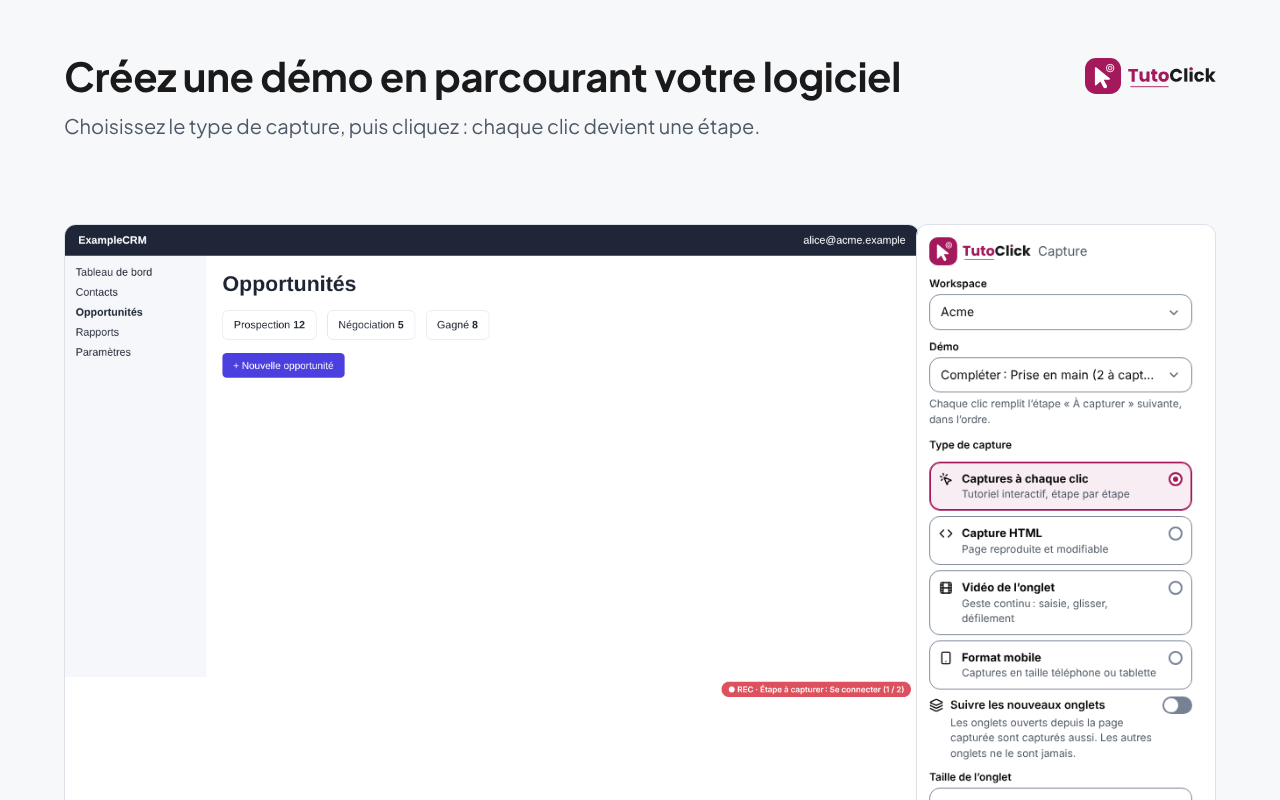
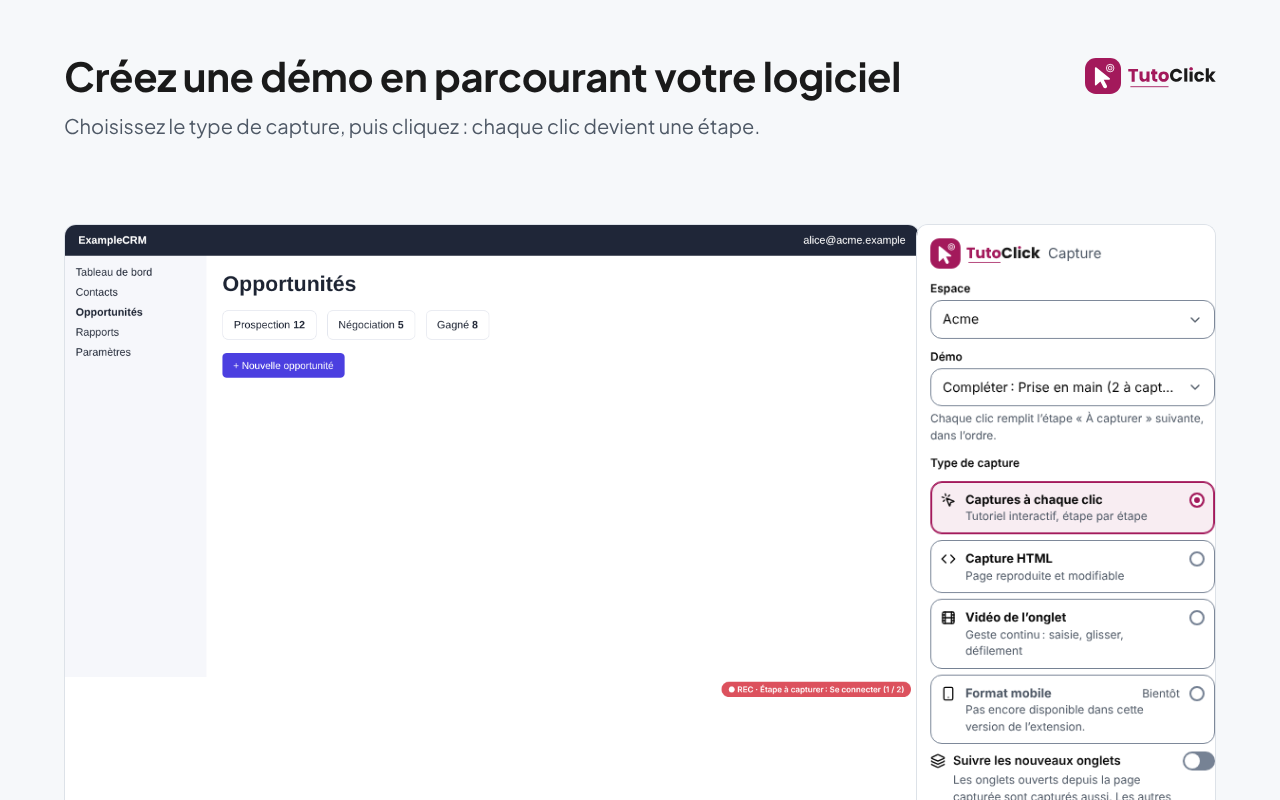
EXT-STORE : le workflow Extension construit avec zip:prod (mêmes contrôles qu'en local) ; capture 1 à jour (fc3cd3b)
Claude-Session: https://claude.ai/code/session_016yn81ZxTg2ruYKp45zgJVh

Changed region(s): [[0.7188, 0.2812, 0.9688, 1.0], [0.9062, 0.375, 0.9375, 0.4062]]

diff --git a/docs/extension/store/README.md b/docs/extension/store/README.md
@@ -57,4 +57,4 @@ Attendu : `"name": "TutoClick Capture"`, pas de `debugger` dans `permissions`, p
 ## 5. Avant l’envoi : à confirmer
 
 - [ ] Le DPO confirme les données déclarées (`fiche.md` §3) et la politique de confidentialité, dont la région d’hébergement (Union européenne).
-- [ ] La capture 1 montre « Espace » et « Format mobile » en « Bientôt » dans le popup (le Lead UX la reprend).
+- [x] La capture 1 montre « Espace » et « Format mobile » en « Bientôt » dans le popup (reprise par le Lead UX).
